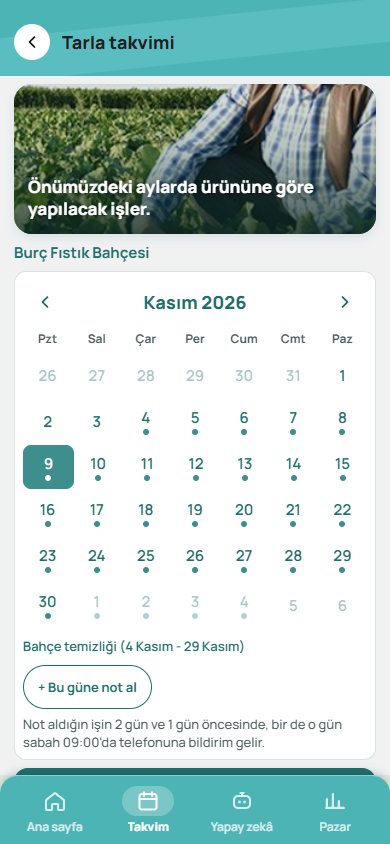
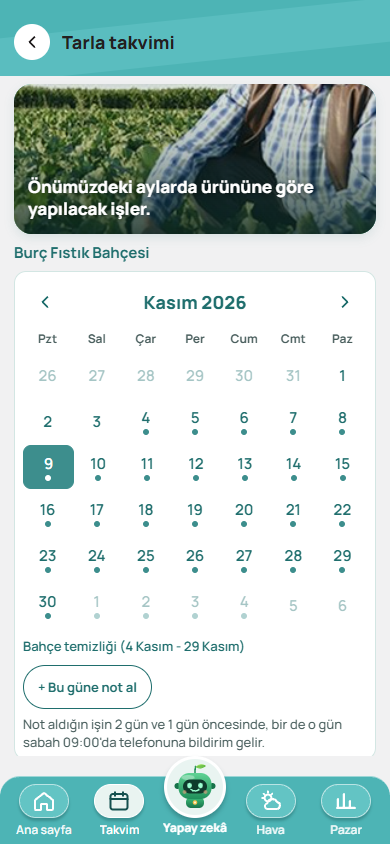
Alt cubuk: 5 dugme, ortada robotlu Yapay zeka dairesi, kabartmali dugmeler, koseler oturur; yuzen robot kaldirildi

Changed region(s): [[0.0, 0.8934, 1.0, 1.0]]

diff --git a/apps/mobile/src/components/AltCubuk.tsx b/apps/mobile/src/components/AltCubuk.tsx
@@ -3,8 +3,14 @@ import { useEffect, useState } from 'react';
 import { Keyboard, Platform, Pressable, StyleSheet, Text, View } from 'react-native';
 import { useSafeAreaInsets } from 'react-native-safe-area-context';
 import Svg, { Circle, Path, Rect } from 'react-native-svg';
-import { fontFamily, homeColors } from '@tarim/ui';
+import { colors, fontFamily, homeColors } from '@tarim/ui';
+import { Robot } from '../asistan/Robot';
 import { ALT_SEKMELER, altCubukGorunur, type Anahtar } from './altCubukYol';
+
+const KOYU = '#14504F';
+/** Orta düğmenin banttan yukarı taştığı yükseklik. */
+const TASMA = 20;
+const DAIRE = 62;
 
 function Ikon({ k, renk }: { k: Anahtar; renk: string }) {
   const p = { width: 24, height: 24, viewBox: '0 0 24 24' } as const;
@@ -37,22 +43,23 @@ function Ikon({ k, renk }: { k: Anahtar; renk: string }) {
           <Path d="M3.5 10h17M8 3v4M16 3v4" stroke={renk} strokeWidth={2} strokeLinecap="round" />
         </Svg>
       );
-    case 'yz':
+    case 'hava':
       return (
         <Svg {...p}>
-          <Rect
-            x={4}
-            y={7}
-            width={16}
-            height={12}
-            rx={4}
+          <Circle cx={9} cy={9} r={3.4} fill="none" stroke={renk} strokeWidth={2} />
+          <Path
+            d="M9 2.5v1.4M3 9h1.4M4.8 4.8l1 1M13.2 4.8l-1 1"
+            stroke={renk}
+            strokeWidth={2}
+            strokeLinecap="round"
+          />
+          <Path
+            d="M8 20h9.5a3.5 3.5 0 0 0 .4-6.97A5 5 0 0 0 8.4 14.2 3 3 0 0 0 8 20z"
             fill="none"
             stroke={renk}
             strokeWidth={2}
+            strokeLinejoin="round"
           />
-          <Circle cx={9.5} cy={13} r={1.4} fill={renk} />
-          <Circle cx={14.5} cy={13} r={1.4} fill={renk} />
-          <Path d="M12 7V4M10.5 4h3" stroke={renk} strokeWidth={2} strokeLinecap="round" />
         </Svg>
       );
     case 'pazar':
@@ -66,9 +73,15 @@ function Ikon({ k, renk }: { k: Anahtar; renk: string }) {
           />
         </Svg>
       );
+    default:
+      return null;
   }
 }
 
+/**
+ * Alt gezinme çubuğu: üst bantla aynı renk. Ortada robotlu yuvarlak Yapay zekâ düğmesi banttan taşar;
+ * diğer dört düğme kabartmalı. Bandın arkasında sayfa zemini rengi vardır: yuvarlak köşelerde koyu leke kalmaz.
+ */
 export function AltCubuk() {
   const yol = usePathname();
   const router = useRouter();
@@ -85,54 +98,112 @@ export function AltCubuk() {
   }, []);
   if (klavye || !altCubukGorunur(yol)) return null;
   return (
-    <View testID="alt-cubuk" style={[styles.cubuk, { paddingBottom: Math.max(insets.bottom, 6) }]}>
-      {ALT_SEKMELER.map((s) => {
-        const acik = s.eslesen.test(yol);
-        const renk = acik ? '#FFFFFF' : 'rgba(255,255,255,0.78)';
-        return (
-          <Pressable
-            key={s.key}
-            testID={`alt-${s.key}`}
-            accessibilityRole="button"
-            accessibilityLabel={s.ad}
-            accessibilityState={{ selected: acik }}
-            onPress={() => {
-              if (!acik) router.navigate(s.rota as never);
-            }}
-            style={styles.oge}
-          >
-            <View style={[styles.hap, acik && styles.hapAcik]}>
-              <Ikon k={s.key} renk={renk} />
-            </View>
-            <Text style={[styles.yazi, { color: renk }, acik && styles.yaziAcik]} numberOfLines={1}>
-              {s.ad}
-            </Text>
-          </Pressable>
-        );
-      })}
+    <View testID="alt-cubuk" style={styles.kap}>
+      <View style={styles.bant} pointerEvents="none" />
+      <View style={[styles.satir, { paddingBottom: Math.max(insets.bottom, 6) }]}>
+        {ALT_SEKMELER.map((s) => {
+          const acik = s.eslesen.test(yol);
+          const git = () => {
+            if (!acik) router.navigate(s.rota as never);
+          };
+          if (s.key === 'yz') {
+            return (
+              <Pressable
+                key={s.key}
+                testID="alt-yz"
+                accessibilityRole="button"
+                accessibilityLabel={s.ad}
+                accessibilityState={{ selected: acik }}
+                onPress={git}
+                style={styles.orta}
+              >
+                <View style={styles.daire}>
+                  <Robot size={50} id="robot-alt" />
+                </View>
+                <Text style={[styles.yazi, styles.yaziOrta]} numberOfLines={1}>
+                  {s.ad}
+                </Text>
+              </Pressable>
+            );
+          }
+          const renk = acik ? KOYU : '#FFFFFF';
+          return (
+            <Pressable
+              key={s.key}
+              testID={`alt-${s.key}`}
+              accessibilityRole="button"
+              accessibilityLabel={s.ad}
+              accessibilityState={{ selected: acik }}
+              onPress={git}
+              style={styles.oge}
+            >
+              <View style={[styles.hap, acik && styles.hapAcik]}>
+                <Ikon k={s.key} renk={renk} />
+              </View>
+              <Text
+                style={[styles.yazi, { color: acik ? '#FFFFFF' : 'rgba(255,255,255,0.92)' }]}
+                numberOfLines={1}
+              >
+                {s.ad}
+              </Text>
+            </Pressable>
+          );
+        })}
+      </View>
     </View>
   );
 }
 
 const styles = StyleSheet.create({
-  cubuk: {
-    flexDirection: 'row',
+  // Sayfa zemini: bandın yuvarlak köşelerinin arkası koyu değil, sayfayla aynı renk.
+  kap: { backgroundColor: colors.background },
+  bant: {
+    position: 'absolute',
+    left: 0,
+    right: 0,
+    top: TASMA,
+    bottom: 0,
     backgroundColor: homeColors.band,
-    borderTopLeftRadius: 18,
-    borderTopRightRadius: 18,
-    paddingTop: 6,
-    paddingHorizontal: 8,
-    borderTopWidth: 1,
-    borderColor: 'rgba(255,255,255,0.35)',
-    shadowColor: '#0B3B3C',
-    shadowOffset: { width: 0, height: -3 },
-    shadowOpacity: 0.18,
-    shadowRadius: 8,
-    elevation: 12,
+    borderTopLeftRadius: 20,
+    borderTopRightRadius: 20,
+    borderTopWidth: 1.5,
+    borderColor: 'rgba(255,255,255,0.45)',
   },
-  oge: { flex: 1, minHeight: 56, alignItems: 'center', justifyContent: 'center', gap: 2 },
-  hap: { width: 52, height: 30, borderRadius: 15, alignItems: 'center', justifyContent: 'center' },
-  hapAcik: { backgroundColor: 'rgba(255,255,255,0.26)' },
+  satir: { flexDirection: 'row', paddingHorizontal: 6, alignItems: 'flex-start' },
+  oge: { flex: 1, alignItems: 'center', paddingTop: TASMA + 8, gap: 3, minHeight: 56 },
+  // Kabartmalı düğme: bandan biraz açık dolgu, ışık kenarı, kısa gölge.
+  hap: {
+    width: 50,
+    height: 34,
+    borderRadius: 17,
+    alignItems: 'center',
+    justifyContent: 'center',
+    backgroundColor: '#63C4C4',
+    borderWidth: 1.5,
+    borderColor: 'rgba(255,255,255,0.55)',
+    shadowColor: '#0B3B3C',
+    shadowOffset: { width: 0, height: 3 },
+    shadowOpacity: 0.3,
+    shadowRadius: 3,
+    elevation: 4,
+  },
+  hapAcik: { backgroundColor: '#E9F4F1', borderColor: '#FFFFFF' },
+  orta: { flex: 1, alignItems: 'center', gap: 1, minHeight: 56 },
+  daire: {
+    width: DAIRE,
+    height: DAIRE,
+    borderRadius: DAIRE / 2,
+    alignItems: 'center',
+    justifyContent: 'center',
+    backgroundColor: '#E9F4F1',
+    borderWidth: 3,
+    borderColor: '#FFFFFF',
+    shadowColor: '#0B3B3C',
+    shadowOffset: { width: 0, height: 4 },
+    shadowOpacity: 0.35,
+    shadowRadius: 5,
+    elevation: 8,
+  },
   yazi: { fontFamily: fontFamily.semibold, fontSize: 12 },
-  yaziAcik: { fontFamily: fontFamily.extrabold },
+  yaziOrta: { fontFamily: fontFamily.extrabold, color: '#FFFFFF' },
 });

diff --git a/apps/e2e/tests/tasarim.spec.ts b/apps/e2e/tests/tasarim.spec.ts
@@ -45,23 +45,16 @@ test('tasarım: ana sayfada hava efekti ve yeşil robot asistan; robot tarla ekl
   );
   await page.goto('/');
   await expect(page.getByTestId('ana-bant')).toBeVisible();
-  await expect(page.getByTestId('asistan-ac')).toBeVisible();
-  // Açılışta karşılama balonu kısa süre görünür (metin i18n'de; burada yalnız robotun varlığı).
-  await page.waitForTimeout(2200); // balon 1,2 sn sonra belirir
+  // Yüzen robot kalktı: robot alt çubuğun ortasındaki Yapay zekâ düğmesinde.
+  await expect(page.getByTestId('asistan-ac')).toHaveCount(0);
+  await expect(page.getByTestId('alt-cubuk')).toBeVisible();
+  await expect(page.getByTestId('alt-yz')).toBeVisible();
   const sahne = await page.locator('[data-testid^="hava-efekti-"]').getAttribute('data-testid');
   console.log('hava sahnesi:', sahne);
   await page.screenshot({ path: `${OUT}/anasayfa-asistan.png` });
 
-  // Robot hafifçe süzüldüğü için "durağan" beklenmez.
-  await page.getByTestId('asistan-ac').click({ force: true });
-  await expect(page.getByTestId('asistan-panel')).toBeVisible();
-  await page.waitForTimeout(500);
+  await page.getByTestId('alt-yz').click();
+  await expect(page).toHaveURL(/\/yapay-zeka$/);
+  await expect(page.getByTestId('yz-yaz')).toBeVisible();
   await page.screenshot({ path: `${OUT}/asistan-panel.png` });
-
-  // Tarla ekleme sohbetin içinde olur: sayfa değişmez.
-  const url0 = page.url();
-  await page.getByTestId('asistan-yaz').fill('yeni tarla eklemek istiyorum');
-  await page.getByTestId('asistan-gonder').click();
-  await expect(page.getByTestId('asistan-cevap')).toContainText('Şu an arazinde misin?');
-  expect(page.url()).toBe(url0);
 });

diff --git a/apps/mobile/app/(tabs)/index.tsx b/apps/mobile/app/(tabs)/index.tsx
@@ -13,7 +13,6 @@ import {
 import { useSafeAreaInsets } from 'react-native-safe-area-context';
 import { elevation, fontFamily, homeColors } from '@tarim/ui';
 import type { InboxItemDto } from '../../src/api/client';
-import { AsistanDugmesi } from '../../src/asistan/Asistan';
 import { SunucuKarti } from '../../src/components/SunucuKarti';
 import { Iskelet, YuklemeHatasi } from '../../src/components/Yukleme';
 import { loadHome, loadHomeCache, type HomeData } from '../../src/home/load';
@@ -263,7 +262,6 @@ export default function HomeScreen() {
       {/* Kaydırınca içerik saat/pil satırının altına girmesin. */}
       <View pointerEvents="none" style={[styles.statusCover, { height: insets.top }]} />
       {/* G26: yeşil robot asistan (ilk açılışta "Ne yapmak istersin?"). */}
-      {state === 'ready' || state === 'empty' ? <AsistanDugmesi /> : null}
     </View>
   );
 }

diff --git a/apps/mobile/src/components/AltCubuk.test.ts b/apps/mobile/src/components/AltCubuk.test.ts
@@ -8,8 +8,15 @@ describe('alt çubuk', () => {
     for (const y of ['/yapay-zeka', '/giris', '/ayarlar', '/arazi-ekle', '/yetkili', '/sulama'])
       expect(altCubukGorunur(y), y).toBe(false);
   });
-  it('dört düğme: ana sayfa, takvim, yapay zekâ, pazar', () => {
-    expect(ALT_SEKMELER.map((s) => s.rota)).toEqual(['/', '/takvim', '/yapay-zeka', '/pazar']);
+  it('beş düğme, yapay zekâ ortada', () => {
+    expect(ALT_SEKMELER.map((s) => s.rota)).toEqual([
+      '/',
+      '/takvim',
+      '/yapay-zeka',
+      '/hava',
+      '/pazar',
+    ]);
+    expect(ALT_SEKMELER[2]?.key).toBe('yz');
     expect(ALT_SEKMELER.find((s) => s.eslesen.test('/takvim'))?.key).toBe('takvim');
     expect(ALT_SEKMELER.find((s) => s.eslesen.test('/'))?.key).toBe('ana');
   });

diff --git a/apps/mobile/src/components/altCubukYol.ts b/apps/mobile/src/components/altCubukYol.ts
@@ -1,10 +1,11 @@
-export type Anahtar = 'ana' | 'takvim' | 'yz' | 'pazar';
+export type Anahtar = 'ana' | 'takvim' | 'yz' | 'hava' | 'pazar';
 
 /** Alt gezinme çubuğu: üst bantla aynı renk ve dil. Yalnız ana sayfalarda görünür (form ve sohbet ekranlarında yok). */
 export const ALT_SEKMELER: { key: Anahtar; ad: string; rota: string; eslesen: RegExp }[] = [
   { key: 'ana', ad: 'Ana sayfa', rota: '/', eslesen: /^\/(index)?$/ },
   { key: 'takvim', ad: 'Takvim', rota: '/takvim', eslesen: /^\/takvim/ },
   { key: 'yz', ad: 'Yapay zekâ', rota: '/yapay-zeka', eslesen: /^\/yapay-zeka/ },
+  { key: 'hava', ad: 'Hava', rota: '/hava', eslesen: /^\/hava/ },
   { key: 'pazar', ad: 'Pazar', rota: '/pazar', eslesen: /^\/pazar/ },
 ];
 
